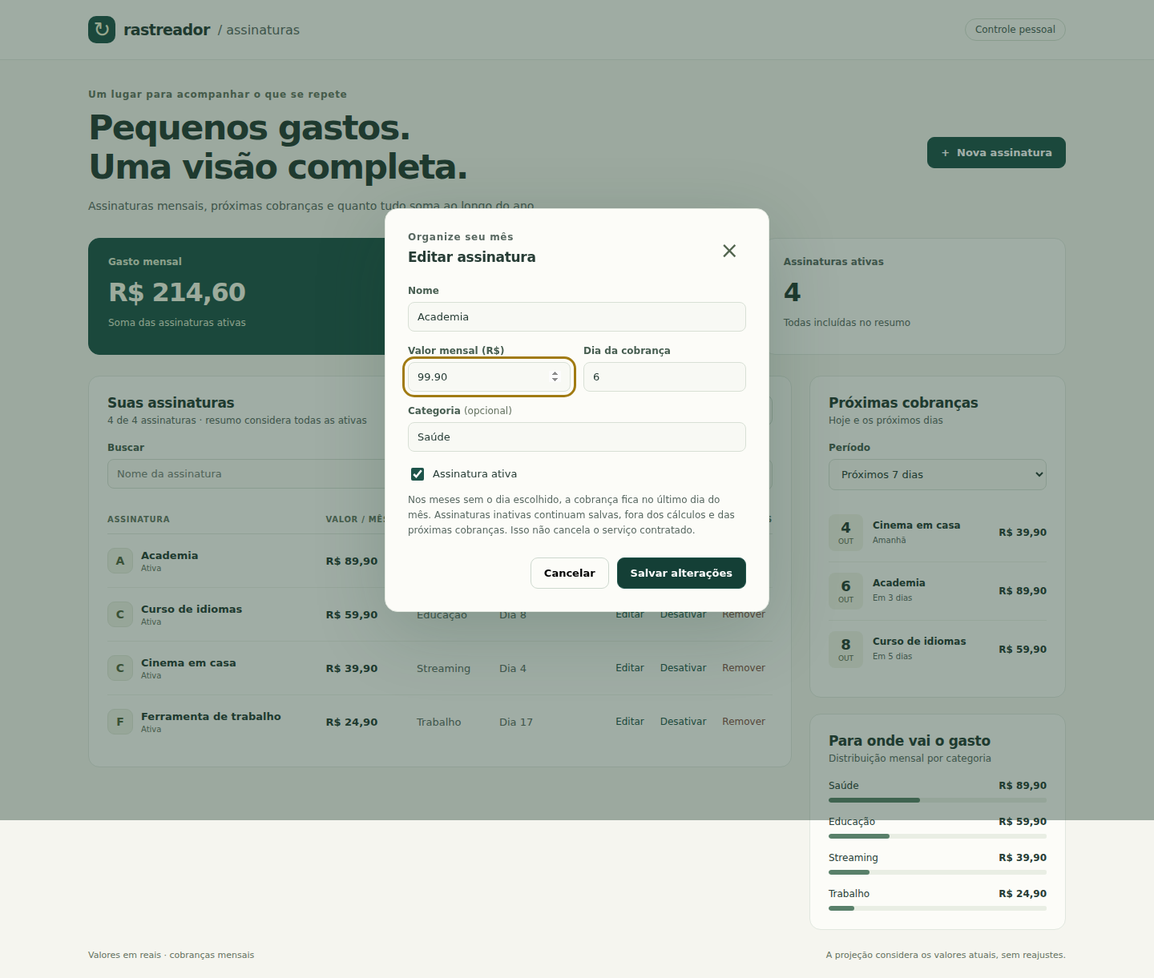
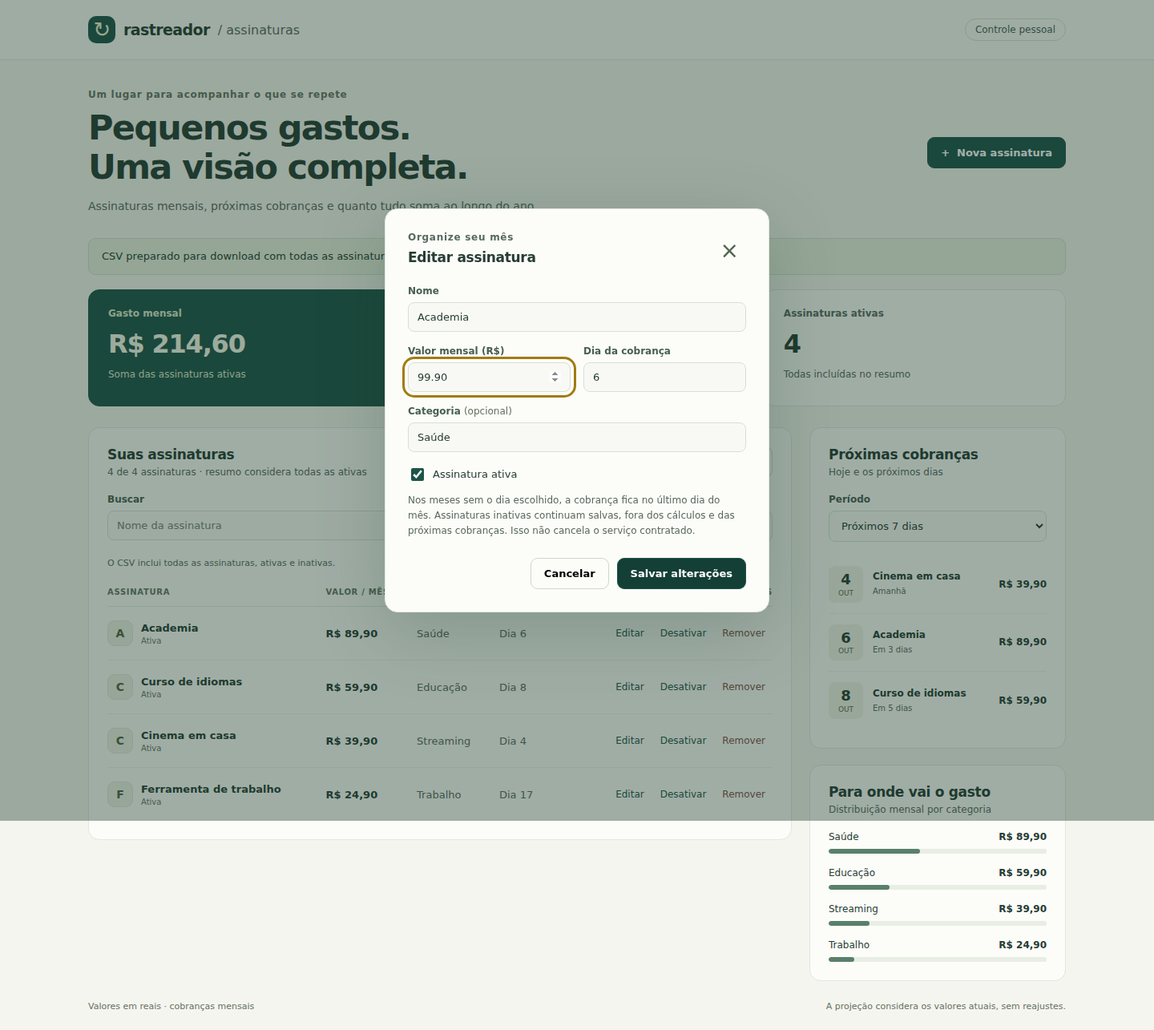
feat: adiciona exportacao de assinaturas em CSV

diff --git a/internal/web/arquivos/app.css b/internal/web/arquivos/app.css
@@ -4,7 +4,7 @@
 main{max-width:1268px;margin:auto;padding:36px 24px 20px}.introducao{display:flex;align-items:center;justify-content:space-between;gap:24px;margin-bottom:28px}.sobretitulo{margin:0 0 10px;color:#647361;font-size:12px;font-weight:650;letter-spacing:.06em}.introducao h1{font-size:clamp(30px,3.5vw,43px);font-weight:650;line-height:1.13;letter-spacing:-1.7px;margin:0 0 14px}.subtitulo{max-width:580px;margin:0;color:var(--texto-suave);font-size:14px;line-height:1.65}
 .botao{border:1px solid #cdd8ce;border-radius:9px;background:transparent;padding:11px 16px;font-size:13px;font-weight:650;display:inline-flex;align-items:center;justify-content:center;gap:9px;white-space:nowrap}.primario{background:var(--verde);color:#fff;border-color:var(--verde)}.primario:hover{background:#143f36}.discreto:hover{background:#edf1e9}.perigo{color:#fff;background:#943d35;border-color:#943d35}.perigo:hover{background:#76302a}.acoes-registro{display:flex;flex-wrap:wrap;justify-content:flex-end;gap:2px;min-width:90px}.acao-registro{border:0;background:transparent;color:var(--verde);padding:7px 9px;border-radius:6px;font-size:12px}.acao-registro:hover{background:#edf1e9}.remover{border:0;background:transparent;color:#805047;padding:7px 9px;border-radius:6px;font-size:12px}.remover:hover{background:#faeae4}
 .resumo{display:grid;grid-template-columns:1.15fr 1fr 1fr;gap:16px;margin-bottom:26px}.cartao{position:relative;overflow:hidden;border:1px solid var(--borda);border-radius:14px;background:#fcfcf8;padding:22px 24px;display:flex;flex-direction:column;gap:12px;min-height:146px}.rotulo{font-size:12px;font-weight:650;color:var(--texto-suave)}.cartao strong{font-size:32px;font-weight:650;letter-spacing:-1.2px;font-variant-numeric:tabular-nums;overflow-wrap:anywhere}.nota{font-size:12px;color:var(--texto-suave)}.destaque{background:var(--verde);border-color:var(--verde);color:#f7f8ea}.destaque .rotulo,.destaque .nota{color:#dce7cf}.decoracao{position:absolute;right:18px;top:22px;font-size:32px;color:#b0c89e}
-.colunas{display:grid;grid-template-columns:minmax(0,1fr) 320px;gap:22px;align-items:start}.painel{border:1px solid var(--borda);border-radius:14px;background:#fcfcf8;padding:23px}.titulo-painel{display:flex;justify-content:space-between;align-items:center;gap:12px;margin-bottom:20px}.titulo-painel h2,h2{font-size:17px;font-weight:650;margin:0 0 5px;letter-spacing:-.3px}.titulo-painel p{margin:0;font-size:12px;color:var(--texto-suave)}.titulo-painel .sobretitulo{margin-bottom:8px}.lateral{display:grid;gap:20px}.filtros{display:grid;grid-template-columns:minmax(140px,1fr) 145px 150px;gap:12px;margin-bottom:19px}.campo{display:flex;flex-direction:column;gap:7px;min-width:0}.campo label{font-size:12px;font-weight:650;color:#475e51}.campo input,.campo select{background:#f8f9f4;border:1px solid #d8e0d5;border-radius:8px;color:#263c35;padding:10px 11px;width:100%;min-width:0;font-size:13px}.campo input::placeholder{color:#778178}.campo input:hover,.campo select:hover{border-color:#9cad9b}.janela{margin-bottom:17px}
+.colunas{display:grid;grid-template-columns:minmax(0,1fr) 320px;gap:22px;align-items:start}.painel{border:1px solid var(--borda);border-radius:14px;background:#fcfcf8;padding:23px}.titulo-painel{display:flex;justify-content:space-between;align-items:center;gap:12px;margin-bottom:20px}.titulo-painel h2,h2{font-size:17px;font-weight:650;margin:0 0 5px;letter-spacing:-.3px}.titulo-painel p{margin:0;font-size:12px;color:var(--texto-suave)}.titulo-painel .sobretitulo{margin-bottom:8px}.acoes-painel{display:flex;flex-wrap:wrap;justify-content:flex-end;gap:8px}.titulo-lista{flex-wrap:wrap}.nota-exportacao{font-size:11px;color:var(--texto-suave);margin:0 0 10px;line-height:1.5}.lateral{display:grid;gap:20px}.filtros{display:grid;grid-template-columns:minmax(140px,1fr) 145px 150px;gap:12px;margin-bottom:19px}.campo{display:flex;flex-direction:column;gap:7px;min-width:0}.campo label{font-size:12px;font-weight:650;color:#475e51}.campo input,.campo select{background:#f8f9f4;border:1px solid #d8e0d5;border-radius:8px;color:#263c35;padding:10px 11px;width:100%;min-width:0;font-size:13px}.campo input::placeholder{color:#778178}.campo input:hover,.campo select:hover{border-color:#9cad9b}.janela{margin-bottom:17px}
 .tabela{width:100%;border-collapse:collapse;font-size:13px}.tabela th{text-align:left;font-size:10px;text-transform:uppercase;letter-spacing:.07em;font-weight:650;color:#657564;padding:12px 9px;border-bottom:1px solid var(--borda)}.tabela td{padding:17px 9px;border-bottom:1px solid #edf0e8;vertical-align:middle}.tabela tr:last-child td{border-bottom:0}.tabela th:first-child,.tabela td:first-child{padding-left:0}.tabela th:last-child,.tabela td:last-child{padding-right:0;text-align:right}.nome-servico{display:flex;align-items:center;gap:10px;max-width:230px}.avatar{display:grid;place-items:center;flex-shrink:0;width:32px;height:32px;border:1px solid #e0e6d8;border-radius:9px;background:#edf0e4;color:#516340;font-size:14px;font-weight:700}.nome-servico strong{font-size:13px;font-weight:650;overflow-wrap:anywhere}.nome-servico small{display:block;font-size:10px;color:#687566;margin-top:3px}.inativa .avatar{background:#f2f1ec;color:#736f64}.inativa strong{color:#6c736c}.valor{font-weight:600;white-space:nowrap;font-variant-numeric:tabular-nums}.categoria{color:var(--texto-suave);overflow-wrap:anywhere}.dia{white-space:nowrap;color:var(--texto-suave)}
 .estado-vazio{color:var(--texto-suave);font-size:13px;line-height:1.7;padding:25px 8px;text-align:center;margin:0}.vazio-lista{padding:32px 12px;text-align:center}.vazio-lista h3{font-size:16px;font-weight:600;margin:0 0 8px}.vazio-lista p{font-size:13px;color:var(--texto-suave);line-height:1.6;margin:0 0 20px}.vazio-acoes{display:flex;justify-content:center;flex-wrap:wrap;gap:10px}.vencimentos{list-style:none;padding:0;margin:0}.vencimento{display:flex;align-items:center;gap:12px;padding:13px 0;border-bottom:1px solid #edf0e8}.vencimento:last-child{border-bottom:0}.data-box{width:43px;flex-shrink:0;display:flex;align-items:center;flex-direction:column;border-radius:8px;background:#f0f2e6;padding:7px 2px;gap:2px}.data-box strong{font-size:18px;line-height:1.1;font-variant-numeric:tabular-nums}.data-box small{font-size:9px;text-transform:uppercase;color:#5c6b50}.vencimento-info{min-width:0;flex:1}.vencimento-info strong{font-size:12px;display:block;overflow-wrap:anywhere}.vencimento-info small{font-size:10px;color:var(--texto-suave)}.vencimento .valor{font-size:12px}.linha-categoria{margin-bottom:17px}.linha-categoria:last-child{margin-bottom:0}.rotulo-categoria{display:flex;justify-content:space-between;gap:8px;font-size:12px;margin-bottom:8px}.rotulo-categoria span{overflow-wrap:anywhere;min-width:0}.rotulo-categoria strong{white-space:nowrap;font-weight:600}.barra{height:6px;width:100%;border:0;background:#e9eee4;border-radius:10px;display:block}.barra::-webkit-meter-bar{border:0;background:#e9eee4;border-radius:10px;height:6px}.barra::-webkit-meter-optimum-value{background:#59806a;border-radius:10px}.barra::-moz-meter-bar{background:#59806a;border-radius:10px}
 .mensagem{border:1px solid #d1dfcc;background:#e9f1df;padding:12px 16px;border-radius:9px;font-size:13px;line-height:1.5;margin:0 0 18px}.mensagem.erro{background:#fbede5;border-color:#e7c2ae;color:#803d25}footer{padding:24px 0 0;display:flex;justify-content:space-between;gap:12px;color:#647260;font-size:11px;line-height:1.5}

diff --git a/internal/web/arquivos/app.js b/internal/web/arquivos/app.js
@@ -26,7 +26,7 @@ function mensagem(texto, erro = false) {
   no.hidden = !texto;
 }
 
-async function requisicao(caminho, opcoes = {}, sinal) {
+async function receberResposta(caminho, opcoes = {}, sinal) {
   let resposta;
   try {
     resposta = await fetch(caminho, { ...opcoes, signal: sinal ?? AbortSignal.timeout(10000) });
@@ -39,7 +39,27 @@ async function requisicao(caminho, opcoes = {}, sinal) {
     try { texto = (await resposta.json()).erro || texto; } catch { /* Resposta sem JSON. */ }
     throw new Error(texto);
   }
+  return resposta;
+}
+
+async function requisicao(caminho, opcoes = {}, sinal) {
+  const resposta = await receberResposta(caminho, opcoes, sinal);
   return resposta.status === 204 ? null : resposta.json();
+}
+
+async function exportarCSV() {
+  const botao = el('#exportar-csv');
+  if (botao.disabled) return;
+  botao.disabled = true; botao.textContent = 'Exportando…';
+  try {
+    const resposta = await receberResposta('/assinaturas/exportar.csv');
+    const url = URL.createObjectURL(await resposta.blob());
+    const link = elemento('a'); link.href = url; link.download = 'assinaturas.csv'; link.hidden = true;
+    document.body.append(link); link.click(); link.remove();
+    setTimeout(() => URL.revokeObjectURL(url), 30000);
+    mensagem('CSV preparado para download com todas as assinaturas, ativas e inativas.');
+  } catch (erro) { mensagem(erro.message, true);
+  } finally { botao.disabled = false; botao.textContent = 'Exportar CSV'; }
 }
 
 async function atualizar() {
@@ -289,6 +309,7 @@ el('#dialogo-cadastro').addEventListener('cancel', evento => { if (cadastroOcupa
 el('#cancelar-remover').addEventListener('click', () => el('#dialogo-remover').close());
 el('#dialogo-remover').addEventListener('cancel', evento => { if (removendo) evento.preventDefault(); });
 el('#atualizar').addEventListener('click', () => { mensagem(''); atualizar(); });
+el('#exportar-csv').addEventListener('click', exportarCSV);
 el('#dias').addEventListener('change', () => { mensagem(''); atualizar(); });
 el('#busca').addEventListener('input', renderizarLista);
 for (const id of ['#categoria-filtro', '#ordem']) el(id).addEventListener('change', renderizarLista);

diff --git a/internal/web/arquivos/index.html b/internal/web/arquivos/index.html
@@ -28,12 +28,13 @@
     </section>
     <div class="colunas">
       <section id="assinaturas" class="painel lista-painel" aria-labelledby="titulo-lista" tabindex="-1">
-        <div class="titulo-painel"><div><h2 id="titulo-lista">Suas assinaturas</h2><p id="contagem">Carregando…</p></div><button id="atualizar" class="botao discreto" type="button">↻ Atualizar</button></div>
+        <div class="titulo-painel titulo-lista"><div><h2 id="titulo-lista">Suas assinaturas</h2><p id="contagem">Carregando…</p></div><div class="acoes-painel"><button id="exportar-csv" class="botao discreto" type="button" aria-describedby="nota-exportacao">Exportar CSV</button><button id="atualizar" class="botao discreto" type="button">↻ Atualizar</button></div></div>
         <div class="filtros">
           <div class="campo busca"><label for="busca">Buscar</label><input id="busca" type="search" placeholder="Nome da assinatura" maxlength="100"></div>
           <div class="campo"><label for="categoria-filtro">Categoria</label><select id="categoria-filtro"><option value="">Todas</option></select></div>
           <div class="campo"><label for="ordem">Ordenar por</label><select id="ordem"><option value="nome">Nome</option><option value="valor">Maior valor</option><option value="dia">Dia da cobrança</option></select></div>
         </div>
+        <p id="nota-exportacao" class="nota-exportacao">O CSV inclui todas as assinaturas, ativas e inativas.</p>
         <div id="lista" aria-busy="true"><p class="estado-vazio">Buscando assinaturas…</p></div>
       </section>
       <aside class="lateral">

diff --git a/internal/assinatura/exportacao_test.go b/internal/assinatura/exportacao_test.go
@@ -1,0 +1,91 @@
+package assinatura
+
+import (
+	"encoding/csv"
+	"errors"
+	"reflect"
+	"strings"
+	"testing"
+)
+
+func lerCSVTeste(t *testing.T, corpo string) [][]string {
+	t.Helper()
+	if !strings.HasPrefix(corpo, "\uFEFF") {
+		t.Fatal("BOM UTF-8 ausente")
+	}
+	leitor := csv.NewReader(strings.NewReader(strings.TrimPrefix(corpo, "\uFEFF")))
+	leitor.Comma = ';'
+	linhas, err := leitor.ReadAll()
+	if err != nil {
+		t.Fatal(err)
+	}
+	return linhas
+}
+
+func TestExportacaoCSV(t *testing.T) {
+	m := &memoria{lista: []Assinatura{
+		{ID: 2, Nome: "Educação; \"Mensal\"\nCurso", Valor: 39.9, Categoria: "Saúde", DiaCobranca: 31, Ativa: true},
+		{ID: 3, Nome: "Grátis", Valor: 0, DiaCobranca: 1, Ativa: false},
+		{ID: 4, Nome: "Limite", Valor: 99999999.99, Categoria: "=1+1\";@SUM(1)", DiaCobranca: 10, Ativa: true},
+		{ID: 5, Nome: "=1+1", Valor: 0.01, DiaCobranca: 20, Ativa: false},
+	}}
+	w := enviar(m, "GET", "/assinaturas/exportar.csv", "", "")
+	if w.Code != 200 || w.Header().Get("Content-Type") != "text/csv; charset=utf-8" ||
+		w.Header().Get("Content-Disposition") != `attachment; filename="assinaturas.csv"` || w.Header().Get("Cache-Control") != "no-store" {
+		t.Fatalf("resposta inválida: %d %v", w.Code, w.Header())
+	}
+	linhas := lerCSVTeste(t, w.Body.String())
+	esperado := [][]string{
+		{"ID", "Nome", "Valor mensal (R$)", "Categoria", "Dia da cobrança", "Ativa"},
+		{"2", "Educação; \"Mensal\"\nCurso", "39,90", "Saúde", "31", "Sim"},
+		{"3", "Grátis", "0,00", "", "1", "Não"},
+		{"4", "Limite", "99999999,99", "\t=1+1\";@SUM(1)", "10", "Sim"},
+		{"5", "\t=1+1", "0,01", "", "20", "Não"},
+	}
+	if !reflect.DeepEqual(linhas, esperado) {
+		t.Fatalf("CSV diferente: %#v", linhas)
+	}
+	if !strings.Contains(w.Body.String(), "\"\t=1+1\"") || !strings.Contains(w.Body.String(), "\"\t=1+1\"\";@SUM(1)\"") {
+		t.Fatal("prefixo de fórmula deve ficar dentro do campo entre aspas")
+	}
+	if m.lista[3].Nome != "=1+1" || m.lista[2].Categoria != "=1+1\";@SUM(1)" || m.criacoes != 0 || m.alteracoes != 0 || m.estados != 0 {
+		t.Fatal("exportação alterou os registros")
+	}
+}
+
+func TestTextoCSV(t *testing.T) {
+	for _, texto := range []string{
+		"=1+1", "+1", "-1", "@SUM(1)", "＝1", "＋1", "－1", "＠SUM(1)",
+		" \t\r\n=1+1", "\uFEFF=1+1", "\u200B=1+1", "\x00=1+1",
+	} {
+		t.Run(texto, func(t *testing.T) {
+			if obtido := textoCSV(texto); obtido != "\t"+texto {
+				t.Fatalf("prefixo não neutralizado: %q", obtido)
+			}
+		})
+	}
+	for _, texto := range []string{"", "Educação", "Plano + família", "Curso;=1+1", "\";=1+1", "Curso\n=1+1"} {
+		if textoCSV(texto) != texto {
+			t.Fatalf("texto comum mudou: %q", texto)
+		}
+	}
+}
+
+func TestExportacaoVaziaEMetodos(t *testing.T) {
+	m := &memoria{}
+	w := enviar(m, "GET", "/assinaturas/exportar.csv", "", "")
+	if w.Code != 200 || len(lerCSVTeste(t, w.Body.String())) != 1 {
+		t.Fatal("lista vazia deve gerar somente o cabeçalho")
+	}
+	for _, metodo := range []string{"POST", "PUT", "PATCH", "DELETE", "HEAD"} {
+		m := &memoria{}
+		w := enviar(m, metodo, "/assinaturas/exportar.csv", "", "")
+		if w.Code != 405 || w.Header().Get("Allow") != "GET" || m.listagens != 0 {
+			t.Fatalf("método %s aceito ou consultou o banco", metodo)
+		}
+	}
+	w = enviar(&memoria{erro: errors.New("password=privado")}, "GET", "/assinaturas/exportar.csv", "", "")
+	if w.Code != 500 || w.Header().Get("Content-Disposition") != "" || strings.Contains(w.Body.String(), "privado") || strings.HasPrefix(w.Body.String(), "\uFEFF") {
+		t.Fatal("falha no banco gerou download ou expôs erro interno")
+	}
+}

diff --git a/internal/assinatura/exportacao.go b/internal/assinatura/exportacao.go
@@ -1,0 +1,65 @@
+package assinatura
+
+import (
+	"bytes"
+	"encoding/csv"
+	"net/http"
+	"strconv"
+	"strings"
+	"unicode"
+
+	"rastreador-assinaturas/internal/httpjson"
+)
+
+func (h *Handler) exportarCSV(w http.ResponseWriter, r *http.Request) {
+	if r.Method != http.MethodGet {
+		w.Header().Set("Allow", "GET")
+		httpjson.Erro(w, http.StatusMethodNotAllowed, "Método não permitido.")
+		return
+	}
+	assinaturas, err := h.repositorio.Listar(r.Context())
+	if err != nil {
+		httpjson.Interno(w, err)
+		return
+	}
+
+	// Monta o arquivo antes de responder para não baixar um CSV parcial em caso de erro.
+	var arquivo bytes.Buffer
+	arquivo.WriteString("\uFEFF") // BOM UTF-8 para preservar acentos no Excel.
+	writer := csv.NewWriter(&arquivo)
+	writer.Comma = ';'
+	registros := [][]string{{"ID", "Nome", "Valor mensal (R$)", "Categoria", "Dia da cobrança", "Ativa"}}
+	for _, a := range assinaturas {
+		ativa := "Não"
+		if a.Ativa {
+			ativa = "Sim"
+		}
+		valor := strings.Replace(strconv.FormatFloat(a.Valor, 'f', 2, 64), ".", ",", 1)
+		registros = append(registros, []string{strconv.Itoa(a.ID), textoCSV(a.Nome), valor,
+			textoCSV(a.Categoria), strconv.Itoa(a.DiaCobranca), ativa})
+	}
+	if err := writer.WriteAll(registros); err != nil {
+		httpjson.Interno(w, err)
+		return
+	}
+	w.Header().Set("Content-Type", "text/csv; charset=utf-8")
+	w.Header().Set("Content-Disposition", `attachment; filename="assinaturas.csv"`)
+	w.Header().Set("Cache-Control", "no-store")
+	w.Write(arquivo.Bytes())
+}
+
+// A tabulação inicial fica dentro de aspas pelo encoding/csv. Reduz a
+// interpretação como fórmula no Excel sem alterar o texto salvo no banco.
+// Referência: https://community.owasp.org/attacks/CSV_Injection
+func textoCSV(texto string) string {
+	inicio := strings.TrimLeftFunc(texto, func(r rune) bool {
+		return unicode.IsSpace(r) || unicode.IsControl(r) || unicode.Is(unicode.Cf, r)
+	})
+	if strings.HasPrefix(inicio, "=") || strings.HasPrefix(inicio, "+") ||
+		strings.HasPrefix(inicio, "-") || strings.HasPrefix(inicio, "@") ||
+		strings.HasPrefix(inicio, "＝") || strings.HasPrefix(inicio, "＋") ||
+		strings.HasPrefix(inicio, "－") || strings.HasPrefix(inicio, "＠") {
+		return "\t" + texto
+	}
+	return texto
+}

diff --git a/main_test.go b/main_test.go
@@ -3,6 +3,7 @@ package main
 import (
 	"context"
 	"database/sql"
+	"encoding/csv"
 	"encoding/json"
 	"net/http"
 	"net/http/httptest"
@@ -203,6 +204,19 @@ func TestAPIComBanco(t *testing.T) {
 	}
 	if listar()[0].Nome != "Editada" {
 		t.Fatal("edição inválida mudou o banco")
+	}
+	w = enviar("GET", "/assinaturas/exportar.csv", "")
+	leitorCSV := csv.NewReader(strings.NewReader(strings.TrimPrefix(w.Body.String(), "\uFEFF")))
+	leitorCSV.Comma = ';'
+	linhasCSV, err := leitorCSV.ReadAll()
+	if err != nil || w.Code != 200 || len(linhasCSV) != 4 {
+		t.Fatalf("exportação com banco: %d %v %#v", w.Code, err, linhasCSV)
+	}
+	if linhasCSV[1][0] != "1" || linhasCSV[1][1] != "Editada" || linhasCSV[1][2] != "4,40" || linhasCSV[1][4] != "31" || linhasCSV[1][5] != "Não" || linhasCSV[2][1] != "Inativa" || linhasCSV[3][5] != "Sim" {
+		t.Fatalf("CSV não refletiu os registros atuais: %#v", linhasCSV)
+	}
+	if w.Header().Get("X-Content-Type-Options") != "nosniff" || w.Header().Get("Cache-Control") != "no-store" {
+		t.Fatal("proteções ausentes no download")
 	}
 	if w := enviar("DELETE", "/assinaturas/1", ""); w.Code != 204 {
 		t.Fatalf("remoção: %s", w.Body.String())

diff --git a/internal/assinatura/handler_test.go b/internal/assinatura/handler_test.go
@@ -17,9 +17,14 @@ type memoria struct {
 	alteracoes int
 	estados    int
 	ativa      bool
+	lista      []Assinatura
+	listagens  int
 }
 
-func (m *memoria) Listar(context.Context) ([]Assinatura, error) { return nil, m.erro }
+func (m *memoria) Listar(context.Context) ([]Assinatura, error) {
+	m.listagens++
+	return m.lista, m.erro
+}
 func (m *memoria) Criar(_ context.Context, a Assinatura) (int, error) {
 	m.criada = a
 	m.criacoes++

diff --git a/internal/assinatura/handler.go b/internal/assinatura/handler.go
@@ -38,6 +38,7 @@ func NovoHandler(repositorio Armazenamento) *Handler { return &Handler{repositor
 
 func (h *Handler) RegistrarRotas(mux *http.ServeMux) {
 	mux.HandleFunc("/assinaturas", h.roteirarPorMetodo)
+	mux.HandleFunc("/assinaturas/exportar.csv", h.exportarCSV)
 	mux.HandleFunc("/assinaturas/", h.roteirarRegistro)
 }
 

diff --git a/README.md b/README.md
@@ -16,6 +16,7 @@ As capturas usam quatro serviços fictícios adicionados pelo botão **Experimen
 - Consultar as próximas cobranças em períodos de 7, 15 ou 30 dias.
 - Comparar os gastos mensais por categoria.
 - Remover uma assinatura com confirmação.
+- Exportar todas as assinaturas em CSV para consultar em uma planilha.
 
 Os filtros mudam a lista. O resumo e a distribuição por categoria continuam considerando **todas as assinaturas ativas**.
 
@@ -58,6 +59,16 @@ docker compose down
 
 As assinaturas ficam no volume `dados_postgres` e permanecem disponíveis quando você sobe os serviços novamente. O schema é aplicado na primeira criação do banco.
 
+## Exportar para uma planilha
+
+Clique em **Exportar CSV**, acima da lista. O arquivo `assinaturas.csv` inclui todos os registros salvos, **ativos e inativos**, independentemente da busca, dos filtros e da ordenação do painel. Os registros são consultados no banco no momento da exportação.
+
+O arquivo contém ID, nome, valor mensal em reais, categoria, dia de cobrança e estado ativo (`Sim` ou `Não`). Usa UTF-8 com BOM, ponto e vírgula entre colunas e vírgula decimal com duas casas. Uma lista vazia gera somente o cabeçalho.
+
+No Excel ou LibreOffice, importe como **UTF-8**, usando **ponto e vírgula** como separador. Se o Excel abrir tudo em uma coluna, use **Dados → De Texto/CSV** e selecione esse separador. O BOM segue a [orientação da Microsoft para CSV UTF-8](https://support.microsoft.com/en-us/excel/opening-csv-utf-8-files-correctly-in-excel).
+
+Nomes e categorias que começam como fórmulas recebem uma tabulação inicial dentro do campo entre aspas, seguindo a [orientação da OWASP para exportações destinadas ao Excel](https://community.owasp.org/attacks/CSV_Injection). O banco não é alterado. Esse prefixo faz parte do texto exportado e deve ser considerado ao processar o CSV em outros programas; aplicações de planilha podem interpretá-lo de formas diferentes.
+
 ## Regras dos cálculos
 
 Todos os valores representam **cobranças mensais em reais**.
@@ -80,6 +91,7 @@ Remover apaga o registro deste aplicativo. **Desativar ou remover não cancela o
 | GET | `/saude` | Verifica a conexão com o banco |
 | POST | `/assinaturas` | Cadastra uma assinatura |
 | GET | `/assinaturas` | Lista as assinaturas |
+| GET | `/assinaturas/exportar.csv` | Baixa todas as assinaturas em CSV |
 | PUT | `/assinaturas/{id}` | Substitui os campos editáveis de um registro |
 | PATCH | `/assinaturas/{id}` | Altera somente o campo `ativa` |
 | DELETE | `/assinaturas/{id}` | Remove um registro |
@@ -125,6 +137,14 @@ curl -X PATCH http://localhost:8080/assinaturas/1 \
 
 Para reativar, envie `{"ativa":true}`. O `PATCH` aceita somente esse campo e exige um booleano; não aceita estado ausente ou `null`. As duas operações retornam `204`, sem corpo, quando concluídas. As mesmas regras de JSON e o limite de 64 KiB do cadastro também se aplicam a elas.
 
+### Exemplo de exportação
+
+~~~bash
+curl --fail http://localhost:8080/assinaturas/exportar.csv -o assinaturas.csv
+~~~
+
+A resposta tem status `200`, tipo `text/csv; charset=utf-8` e indica download com o nome `assinaturas.csv`. Essa rota aceita somente `GET`. Em caso de falha no banco, retorna erro JSON antes de iniciar o download.
+
 ### Exemplo de relatório
 
 ~~~bash
@@ -150,7 +170,7 @@ go test ./...
 go vet ./...
 ~~~
 
-A suíte cobre validação, limites do JSON, métodos HTTP, respostas de erro, recursos do painel e cálculo de datas, incluindo meses curtos, anos bissextos e viradas de mês e ano. A integração verifica edição, preservação de ID e data de criação, ativação/desativação e o reflexo nos relatórios.
+A suíte cobre validação, limites do JSON, métodos HTTP, respostas de erro, recursos do painel e cálculo de datas, incluindo meses curtos, anos bissextos e viradas de mês e ano. A integração verifica edição, preservação de ID e data de criação, ativação/desativação e o reflexo nos relatórios. A exportação é testada com acentos, aspas, separadores, quebras de linha, valores, inativas e prefixos de fórmula.
 
 Para executar também a integração, use um banco PostgreSQL acessível:
 
@@ -183,4 +203,4 @@ No Compose, API e banco ficam acessíveis somente em `127.0.0.1`. A senha de des
 
 A interface usa recursos locais, exibe os dados como texto e não inclui analytics ou serviços externos. Os registros são persistidos no PostgreSQL.
 
-Os próximos passos são exportação e uma demonstração pública com dados fictícios isolados.
+O próximo passo é uma demonstração pública com dados fictícios isolados.

diff --git a/docs/VALIDACAO.md b/docs/VALIDACAO.md
@@ -1,6 +1,6 @@
 # Validação do painel e da API
 
-Revisão de 3 de outubro de 2026, preparada sobre a `main` em `7b8f58b`, incluindo edição e ativação/desativação.
+Revisão de 3 de outubro de 2026, preparada sobre a `main` em `1999cca`, incluindo exportação em CSV.
 
 ## Código e testes
 
@@ -14,6 +14,14 @@ Revisão de 3 de outubro de 2026, preparada sobre a `main` em `7b8f58b`, incluin
 - Ativação/desativação sem alterar os outros campos, repetição do mesmo estado
   e atualização dos totais, da projeção e dos vencimentos.
 - Edição exige `ativa` explícita; a mudança de estado aceita somente um booleano.
+- Exportação CSV com BOM UTF-8, seis colunas, vírgula decimal, duas casas,
+  acentos, aspas, ponto e vírgula, quebras de linha e registros inativos.
+- Cabeçalho em lista vazia, método GET, nome de download, ausência de cache
+  e falha do banco retornando JSON sem iniciar um arquivo parcial.
+- Prefixos de fórmula em nomes e categorias, incluindo variantes Unicode
+  e caracteres invisíveis iniciais, tratados na exportação sem alterar o banco.
+- CSV gerado a partir dos registros reais da integração, após edição e
+  mudança de estado, com os cabeçalhos de proteção do servidor.
 - Vencimentos: virada de mês e ano, fevereiro, ano bissexto, dias 29 a 31,
   inclusão de hoje e do último dia do período e ordenação cronológica.
 - JSON inválido, campos obrigatórios, campos desconhecidos, corpo acima de
@@ -40,6 +48,10 @@ Verificada em Chromium 154, com a aplicação Go e o banco de revisão:
 - Largura de 390 px, sem transbordamento horizontal, e fechamento por Escape.
 - Recursos do aplicativo na mesma origem, sem erros de JavaScript ou
   violações de CSP nos fluxos normais.
+- Download de CSV vazio e preenchido: bytes idênticos à resposta da API,
+  nome do arquivo, BOM, valores e inclusão de todas as assinaturas com filtros ativos.
+- Exportação de inativas e nomes com prefixo de fórmula, download no celular,
+  falha de conexão sem baixar um arquivo de erro e nova tentativa bem-sucedida.
 
 As capturas de `imagens/` usam dados fictícios. Incluem o formulário de edição
 e as ações na lista. Login não faz parte desta versão.
@@ -48,8 +60,13 @@ e as ações na lista. Login não faz parte desta versão.
 
 Não foi possível executar Docker neste ambiente. O workflow prepara PostgreSQL
 16 nativo e verifica o build da imagem no GitHub Actions. A versão anterior
-(`7b8f58b`) passou nessas etapas no [run 37155637317](https://github.com/murilo-mg/rastreador-assinaturas/actions/runs/37155637317).
+(`1999cca`) passou nessas etapas no [run 37157419204](https://github.com/murilo-mg/rastreador-assinaturas/actions/runs/37157419204).
 O resultado das alterações desta revisão deve ser conferido no novo PR antes do merge.
+
+O conteúdo e o download do CSV foram conferidos; Excel e LibreOffice não
+foram executados neste ambiente. O formato UTF-8/BOM segue a documentação
+da Microsoft e o tratamento de fórmulas segue a OWASP, com as referências
+e o escopo descritos no README.
 
 O detector de condições de corrida e os testes verificam comportamentos
 específicos. Esta revisão não equivale a uma auditoria completa de segurança.
